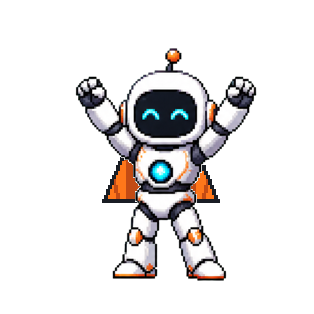
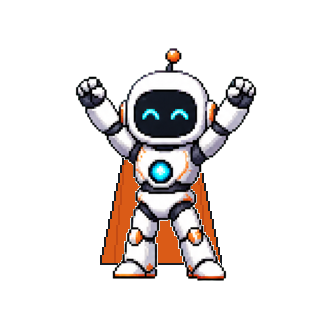
Make the headphones and cape read at small sizes

Changed region(s): [[0.3153, 0.4873, 0.4299, 0.8599], [0.6019, 0.5159, 0.7166, 0.8312], [0.4873, 0.6879, 0.6019, 0.8599]]

diff --git a/Tools/make-mood-frames.swift b/Tools/make-mood-frames.swift
@@ -225,7 +225,7 @@ let clips = hello["clips"] as! [String: [[Any]]]
 let required = Set(clips.values.flatMap { $0 }.map { $0[0] as! String } + [hello["rest"] as! String])
 precondition(required == Set(files.map { $0.deletingPathExtension().lastPathComponent }))
 let sleepy = rgb(105, 146, 168), bright = rgb(73, 235, 255), glint = rgb(219, 255, 255)
-let outline = rgb(25, 29, 36), shadow = rgb(65, 72, 87), steel = rgb(117, 131, 150)
+let outline = rgb(25, 29, 36), shadow = rgb(65, 72, 87)
 let orange = rgb(255, 119, 26), amber = rgb(195, 75, 20)
 var previews = [(String, Bitmap)]()
 var blinks = [(String, Bitmap)]()
@@ -332,27 +332,53 @@ precondition(headRight - headLeft < 2 * v.width, "Head detection includes arms")
 let head = Bounds(x0: headLeft, y0: headTop, x1: headRight, y1: v.y1 + 4 * u)
 print("Accessory head: \(head)")
 
-// Kulaklik yayi, bas sinirindan turetilen basamakli bir konturdur.
+// Kalin bas bandi ve kulak kaplari, sanat pikseliyle tek bir siluet olusturur.
 do {
     var d = Drawing(source)
-    let left = head.x0 - 3 * u, right = head.x1 + 3 * u
-    let top = head.y0 - 3 * u, bottom = f.eyes[0].midY + 6 * u
-    let region = Bounds(x0: left - 2 * u, y0: top, x1: right + 2 * u, y1: bottom)
-    for x in stride(from: head.x0, through: head.x1, by: u) {
-        let sampleX = min(x + u / 2, head.x1)
-        guard let shellY = (head.y0...f.eyes[0].midY).first(where: { source[sampleX, $0].a > 200 })
-        else { fatalError("Missing head contour") }
-        let y = head.y0 + ((shellY - head.y0) / u) * u
-        d.rect(Bounds(x0: x, y0: y - 3 * u, x1: x + u - 1, y1: y + u - 1), outline)
-        d.rect(Bounds(x0: x, y0: y - 2 * u, x1: x + u - 1, y1: y - 1), steel)
+    let left = v.x0 - 10 * u, top = head.y0
+    let columns = 53, rows = 33
+    let region = Bounds(x0: left, y0: top,
+                        x1: left + columns * u - 1, y1: top + rows * u - 1)
+    var silhouette = Set<Int>()
+    for row in 0..<rows {
+        let inset: Int
+        switch row {
+        case 0..<2: inset = 16
+        case 2..<4: inset = 11
+        case 4..<6: inset = 8
+        case 6..<10: inset = 6
+        case 10..<15: inset = 4
+        default: inset = 3
+        }
+        for col in inset..<(columns - inset) {
+            if row < 6 || col < inset + 6 || col >= columns - inset - 6 {
+                silhouette.insert(row * columns + col)
+            }
+        }
+        if row >= 15 {
+            let corner = row == 15 || row == rows - 1 ? 1 : 0
+            for col in corner..<(10 - corner) {
+                silhouette.insert(row * columns + col)
+                silhouette.insert(row * columns + columns - 1 - col)
+            }
+        }
     }
-    for x in [left, right - 3 * u] {
-        d.rect(Bounds(x0: x, y0: top + 11 * u, x1: x + 3 * u - 1, y1: bottom - 4 * u), outline)
-        d.pattern([".####.", "######", "#soos#", "#soos#", "#soos#", "#soos#", "#soos#", "#saas#", "######", ".####."],
-                  x: x - u, y: bottom - 10 * u, unit: u,
-                  palette: ["#": outline, "s": shadow, "o": orange, "a": amber])
+    for cell in silhouette {
+        let col = cell % columns, row = cell / columns
+        let edge = [(col - 1, row), (col + 1, row), (col, row - 1), (col, row + 1)]
+            .contains { x, y in
+                x < 0 || x >= columns || y < 0 || y >= rows || !silhouette.contains(y * columns + x)
+            }
+        let accent = (row >= 18 && row < 30 && (3...5 ~= col || 47...49 ~= col)) ||
+            (row == 2 && (17...35).contains(col))
+        d.rect(Bounds(x0: left + col * u, y0: top + row * u,
+                      x1: left + (col + 1) * u - 1, y1: top + (row + 1) * u - 1),
+               edge ? outline : (accent ? orange : shadow))
     }
-    let result = d.save("acc-headphones", to: directory, unit: u, regions: [region]) { x, y in region.contains(x, y) }
+    let result = d.save("acc-headphones", to: directory, unit: u, regions: [region]) { x, y in
+        precondition(!v.contains(x, y) && y >= head.y0, "Headphones cover visor or antenna")
+        return region.contains(x, y)
+    }
     previews.append(("HEADPHONES", result))
 }
 
@@ -408,19 +434,20 @@ do {
     previews.append(("MUG", result))
 }
 
-// Kisa pelerin omuzlarin arkasinda, bel hizasinda biter.
+// Tek parca pelerin omuzlardan diz altina iner; robotun tum pikselleri onde kalir.
 do {
     var d = Drawing(source)
-    let top = v.y1 + 4 * u, rows = 29
+    let top = v.y1 + 4 * u, rows = 60
     let center = f.core.midX, half = (head.width / u) / 2 - 5
+    let capeOrange = rgb(218, 91, 23)
     let region = Bounds(x0: center - (half + 12) * u, y0: top,
-                        x1: center + (half + 12) * u, y1: top + rows * u - 1)
+                        x1: center + (half + 13) * u - 1, y1: top + rows * u - 1)
     for row in 0..<rows {
-        let spread = half + row * 12 / rows
+        let spread = half + min(row, rows - 5) * 12 / (rows - 5)
         for col in -spread...spread {
-            let edge = abs(col) >= spread - 1 || row >= rows - 2
-            let fold = abs(col) < half || (abs(col) + row / 4) % 9 < 2
-            let color = edge ? outline : (fold ? amber : orange)
+            let edge = abs(col) == spread || row == 0 || row == rows - 1
+            let fold = abs(col) == half + row * 6 / rows
+            let color = edge ? outline : (fold ? amber : capeOrange)
             d.rect(Bounds(x0: center + col * u, y0: top + row * u,
                           x1: center + (col + 1) * u - 1, y1: top + (row + 1) * u - 1), color, behind: true)
         }
